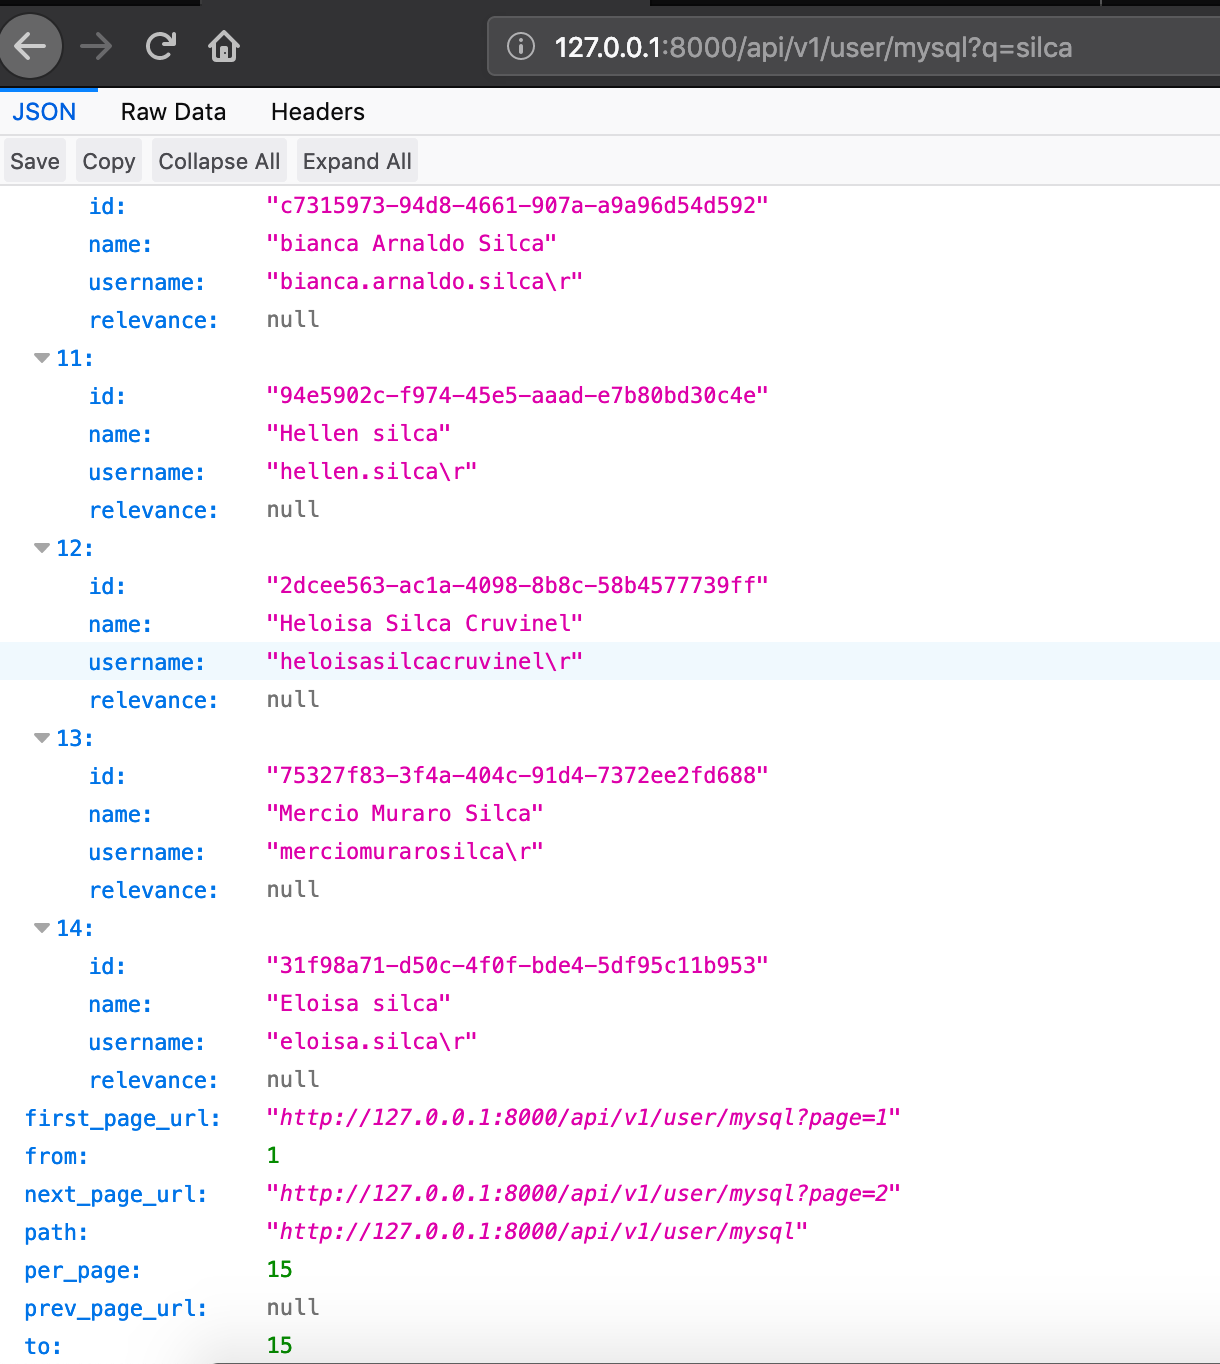
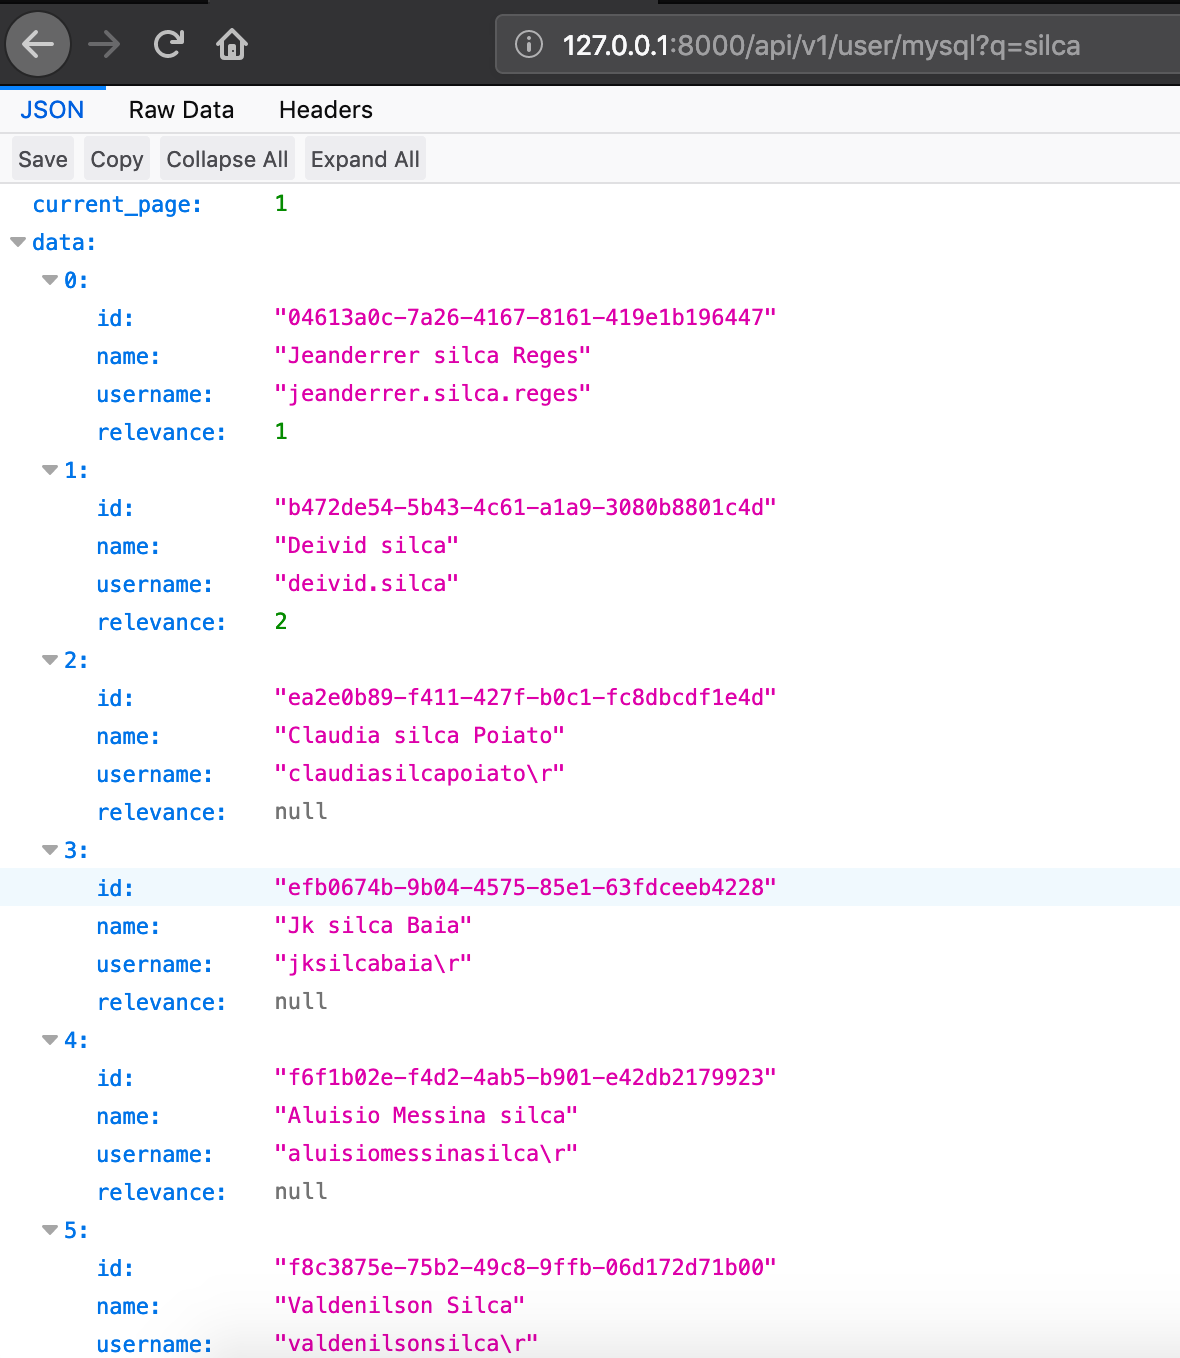
Correção de imagem do readem, ajuste no seed de de sync de dados para o elasticsearch

Changed region(s): [[0.0, 0.0, 0.7322, 1.0], [0.3966, 0.0, 0.9153, 0.0619]]

diff --git a/database/seeds/InsertDataSampleToElasticsearch.php b/database/seeds/InsertDataSampleToElasticsearch.php
@@ -59,8 +59,8 @@ class InsertDataSampleToElasticsearch extends Seeder
                 'usr_relevance_list.relevance'
             )
             ->leftJoin('usr_relevance_list', 'users.id', '=', 'usr_relevance_list.id')
-            ->orderByRaw("CASE WHEN usr_relevance_list.relevance is null then 1 else 0 end")
-            ->chunk(5000, function($users) {
+            ->orderByRaw('ISNULL(usr_relevance_list.relevance), usr_relevance_list.relevance ASC')
+            ->chunk(1000, function($users) {
                 foreach ($users as $user)
                 {
                     echo "Indexando no ElaticSearch.: ";
